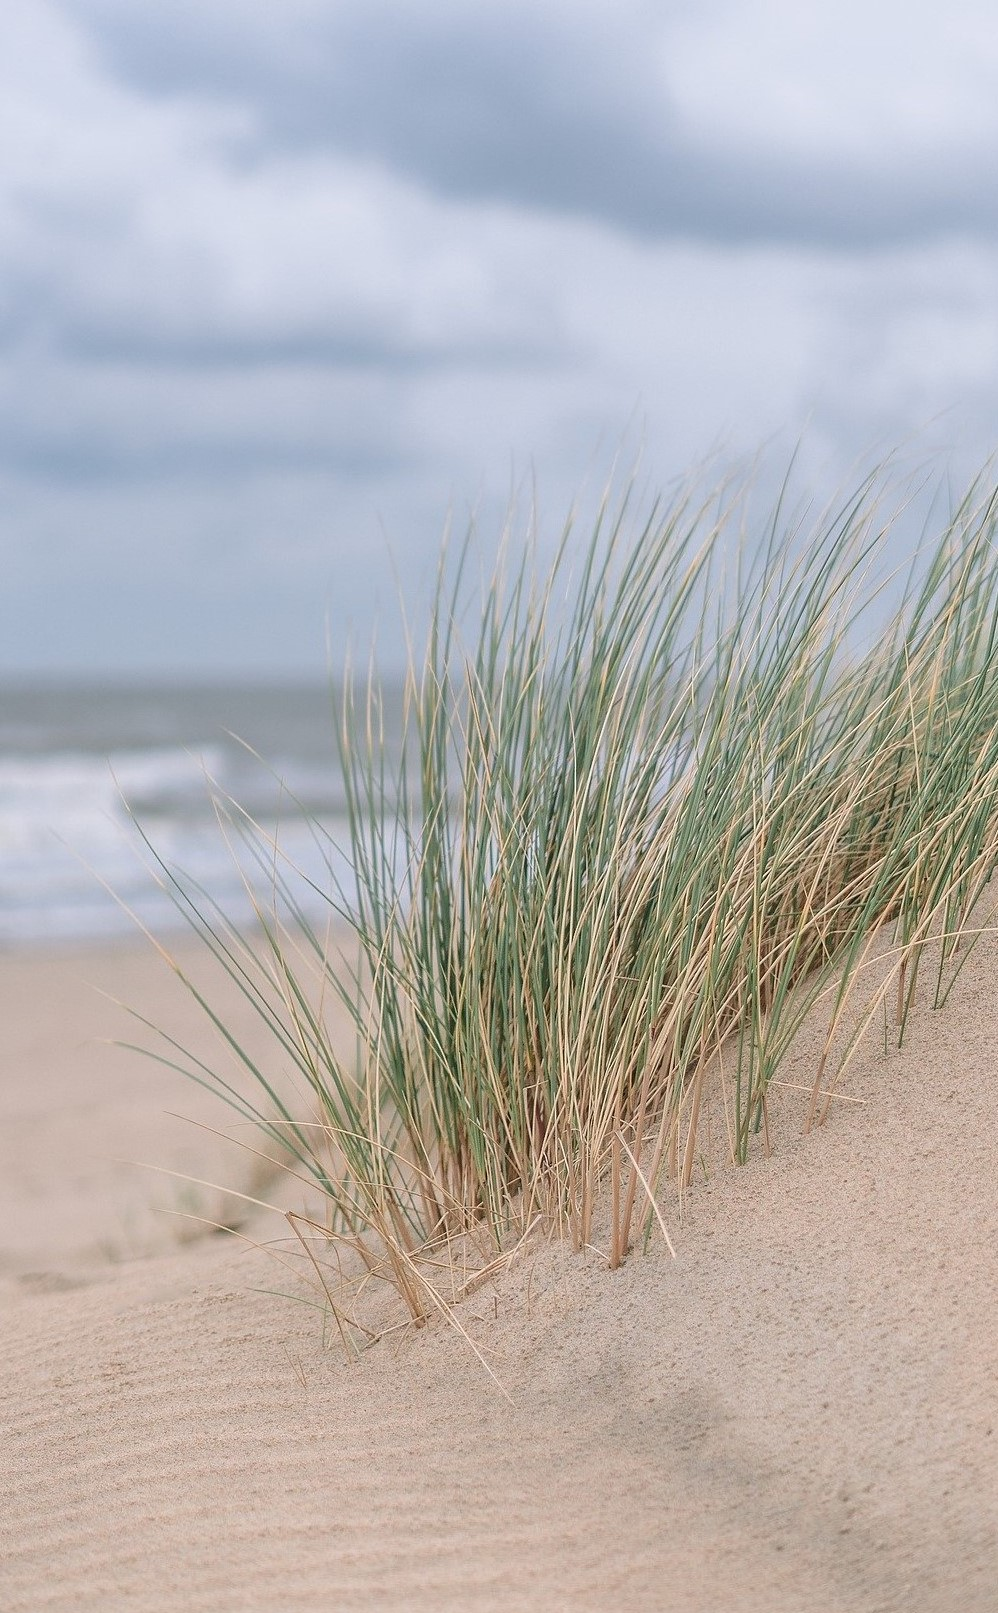
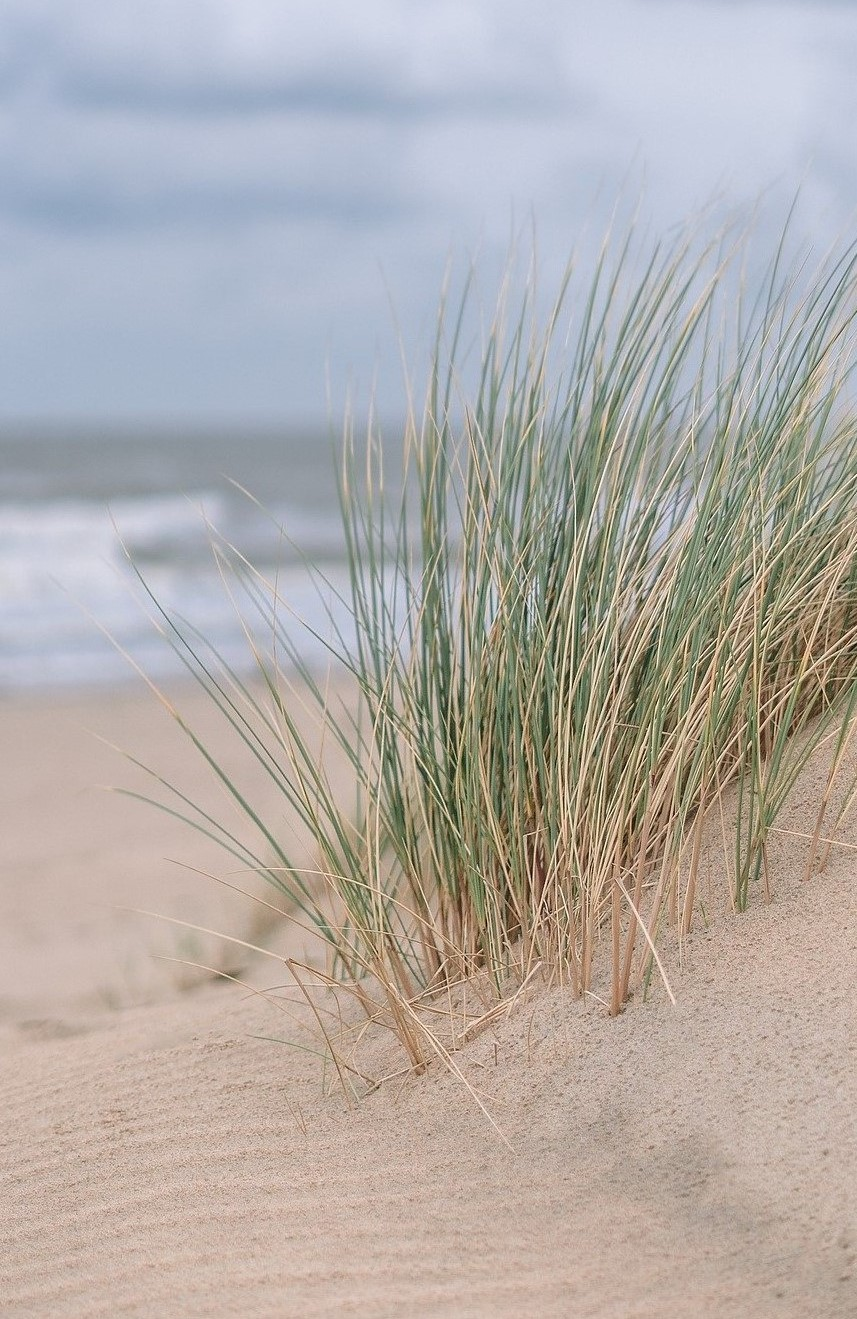
initial commit

diff --git a/new_sites/person.html b/new_sites/person.html
@@ -16,7 +16,7 @@
 
 </head>
 
-<body style="background-image: url(../img/dune-4457475_1920_2.jpg) !important;">
+<body style="background-image: url(../img/north-sea-3740495_1920.jpg) !important;">
 
 	
 	  
